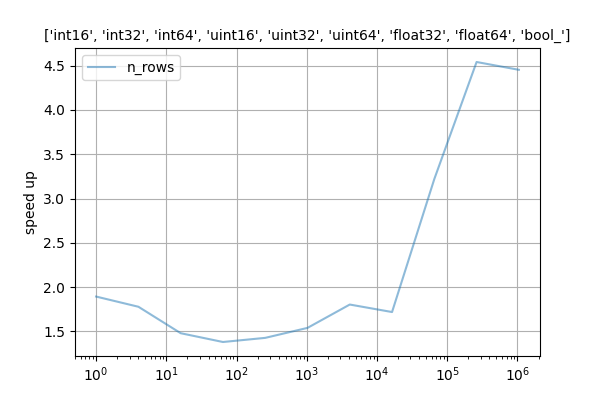
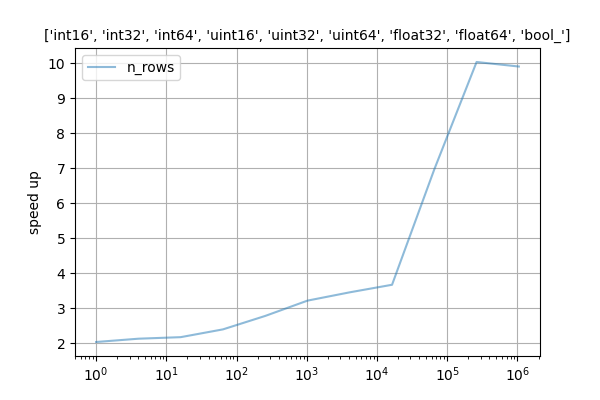
speed up to deserialization

diff --git a/src/parsing/array_types.rs b/src/parsing/array_types.rs
@@ -40,18 +40,15 @@ impl<T> Array<T> {
         Array(Base::Array(vec![]), Some(vec![0]))
     }
 
-    pub fn push(&mut self, arr: Array<T>) {
-        match arr.0 {
-            Base::Scalar(value) => match self {
-                Array(Base::Array(ref mut vec), Some(ref mut shape)) => {
-                    vec.push(value);
-                    if shape.len() != 1 {
-                        panic!("not working for non 1D arrays")
-                    };
-                    shape[0] += 1
-                }
-                _ => panic!("not implemented"),
-            },
+    pub fn push(&mut self, value: T) {
+        match self {
+            Array(Base::Array(ref mut vec), Some(ref mut shape)) => {
+                vec.push(value);
+                if shape.len() != 1 {
+                    panic!("not working for non 1D arrays")
+                };
+                shape[0] += 1
+            }
             _ => panic!("not implemented"),
         }
     }
@@ -239,7 +236,8 @@ impl<'de, 'a, T: FromPrimitive + Deserialize<'de>> Visitor<'de> for ExtendVecVis
     fn visit_seq<S>(mut self, mut seq: S) -> Result<Self::Value, S::Error>
     where
         S: SeqAccess<'de>,
-    {
+    {   
+        // only compute shape of first inner array visited
         if self.0.compute_shape {
             let mut outer_size: usize = 0;
             let mut compute_shape: bool = true;
@@ -256,6 +254,7 @@ impl<'de, 'a, T: FromPrimitive + Deserialize<'de>> Visitor<'de> for ExtendVecVis
             self.0.shape.push(outer_size);
 
             Ok(())
+        // we now know the shape of the following arrays at this dimension
         } else {
             while let Some(_) = seq.next_element_seed(ArrayBuilder {
                 values: &mut self.0.values,
@@ -296,18 +295,15 @@ impl BoolArray {
         BoolArray(Base::Array(vec![]), Some(vec![0]))
     }
 
-    pub fn push(&mut self, arr: BoolArray) {
-        match arr.0 {
-            Base::Scalar(value) => match self {
-                BoolArray(Base::Array(ref mut vec), Some(ref mut shape)) => {
-                    vec.push(value);
-                    if shape.len() != 1 {
-                        panic!("not working for non 1D arrays")
-                    };
-                    shape[0] += 1
-                }
-                _ => panic!("not implemented"),
-            },
+    pub fn push(&mut self, value: bool) {
+        match self {
+            BoolArray(Base::Array(ref mut vec), Some(ref mut shape)) => {
+                vec.push(value);
+                if shape.len() != 1 {
+                    panic!("not working for non 1D arrays")
+                };
+                shape[0] += 1
+            }
             _ => panic!("not implemented"),
         }
     }

diff --git a/src/parsing/transpose_types.rs b/src/parsing/transpose_types.rs
@@ -39,7 +39,7 @@ impl<'de, 's> Visitor<'de> for TransposeSeqVisitor<'s> {
         S: SeqAccess<'de>,
     {
         let out: &mut Vec<OutputTypes> = self.0 .0;
-        for (i, output_type) in out.iter_mut().enumerate() {
+        for output_type in out.iter_mut() {
             let success = match output_type {
                 OutputTypes::I8(arr) => seq.next_element()?.map(|new_arr| arr.push(new_arr)),
                 OutputTypes::I16(arr) => seq.next_element()?.map(|new_arr| arr.push(new_arr)),
@@ -67,10 +67,9 @@ impl<'de, 's> Visitor<'de> for TransposeSeqVisitor<'s> {
                 None => {
                     drop(out);
                     return Err(de::Error::custom(format!(
-                        "Too many columns specified: {} ({}) \nFound: ({})",
-                        DisplayVecOutputTypes(self.0.0),
-                        self.0.0.len(),
-                        i
+                        "Too many columns specified: {} ({})",
+                        DisplayVecOutputTypes(self.0 .0),
+                        self.0 .0.len(),
                     )));
                 }
             };

diff --git a/src/lib.rs b/src/lib.rs
@@ -26,8 +26,8 @@ impl NumpyDeserializer {
     fn from_json_bytes(_cls: &PyType, _py: Python, bytes: &[u8]) -> PyResult<Self> {
         let result = serde_json::from_slice(bytes);
         match result {
-            Ok(structure_descriptor) => Ok(NumpyDeserializer {
-                structure_descriptor,
+            Ok(data) => Ok(NumpyDeserializer {
+                structure_descriptor: StructureDescriptor { data },
             }),
             Err(err) => Err(PyValueError::new_err(format!(
                 "Error parsing structure bytes {}",
